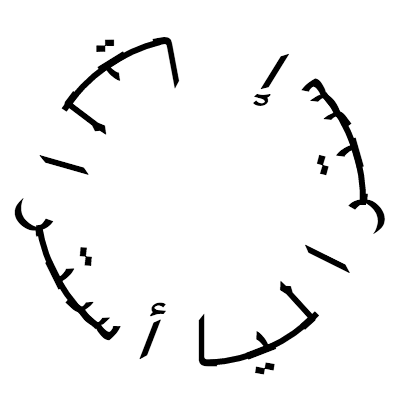
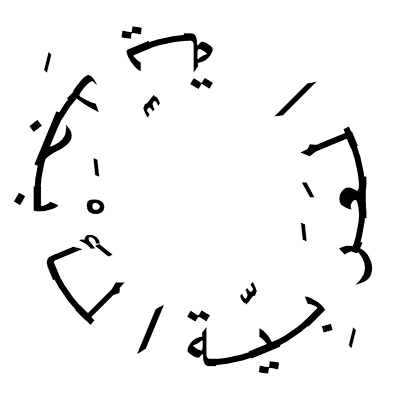
change demo in readme to show taskil

diff --git a/README.md b/README.md
@@ -3,11 +3,11 @@
 Simply some JavaScript and a web font to print Arabic script text in a
 circle.
 
-Length calibration in progress. Here's 'Australia' printed twice
-
 ## 'Outie' style
 
-Arabic printed with up = away from center
+Arabic printed with up = away from center.
+
+Here's 'Australia' printed twice:
 
 <img src="https://mapmeld.github.io/circular-arabic/sample.png"/>
 
@@ -15,7 +15,9 @@ Arabic printed with up = away from center
 
 Arabic printed with up = toward center
 
-<img src="https://mapmeld.github.io/circular-arabic/sample2.png"/>
+Here's 'Arabic alphabet' showing tashkil marks
+
+<img src="https://mapmeld.github.io/circular-arabic/sample2.png?v=2"/>
 
 ## License
 
